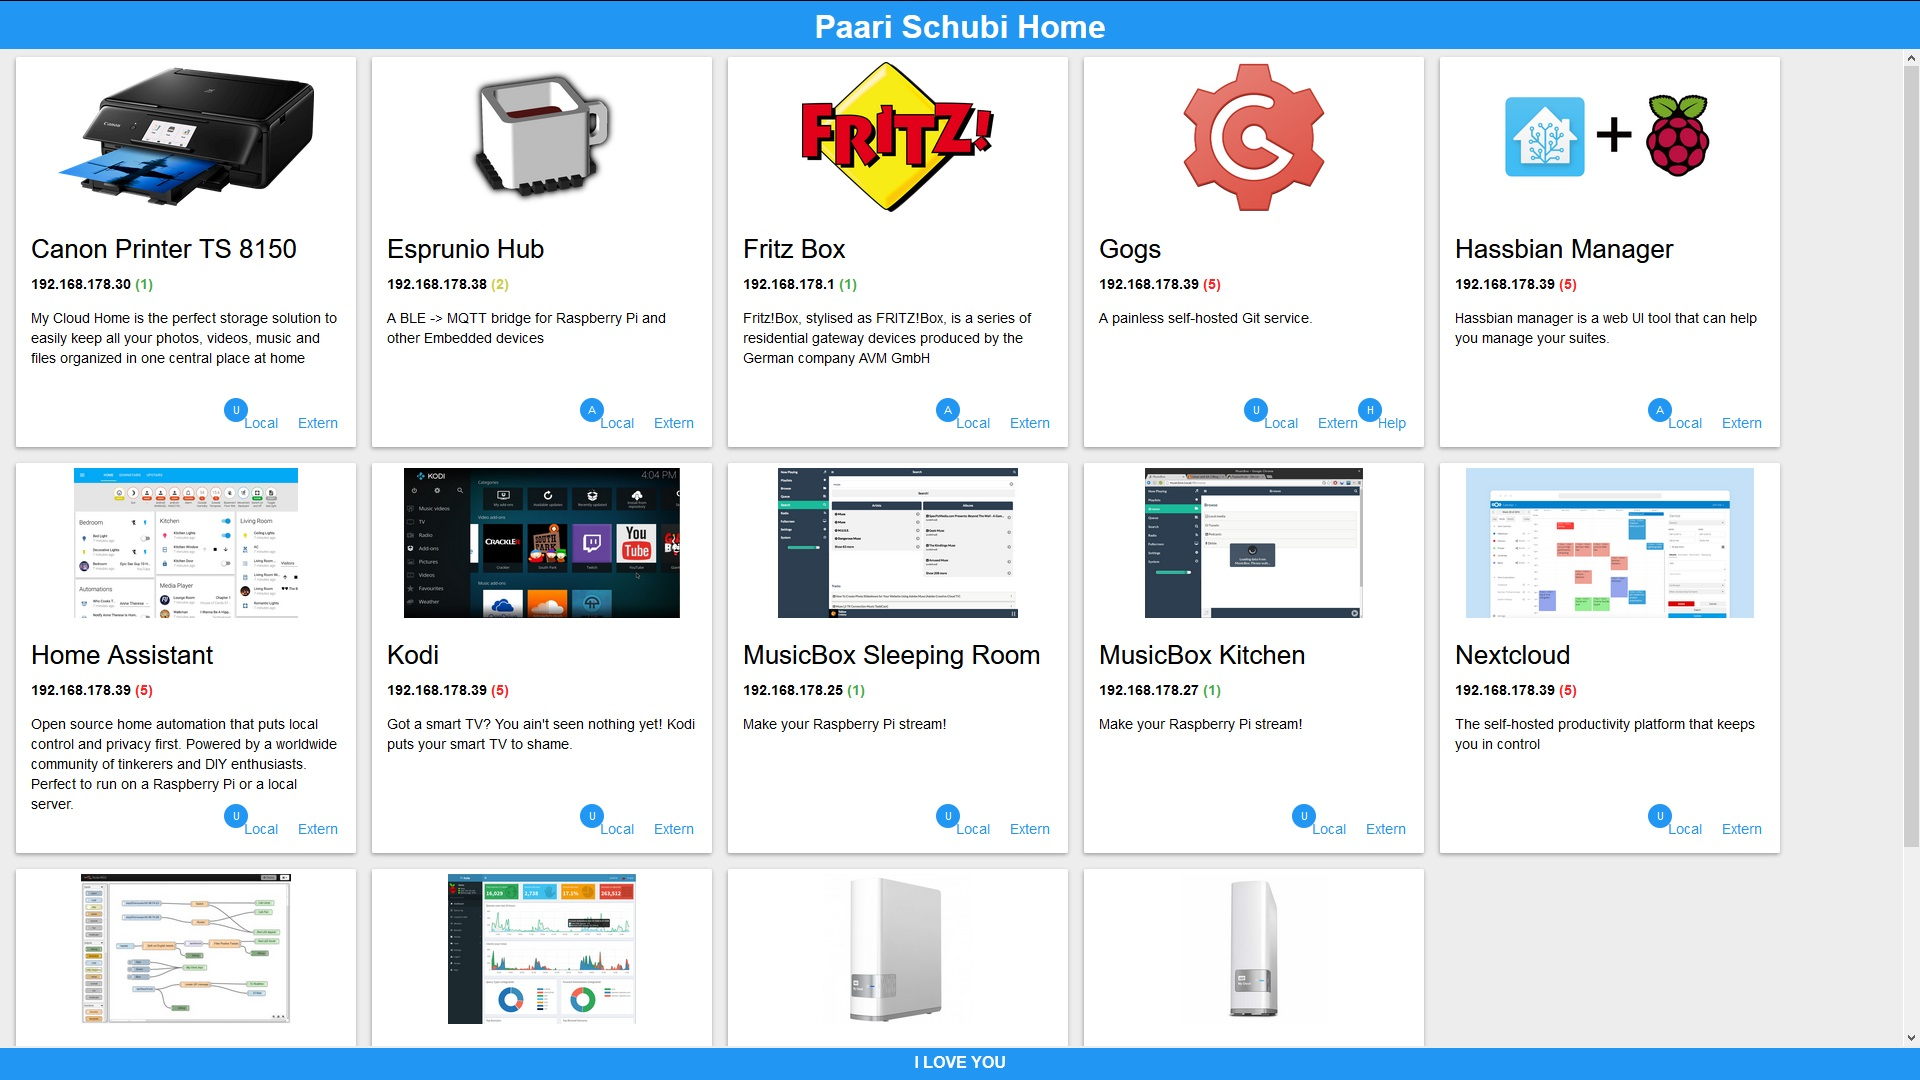
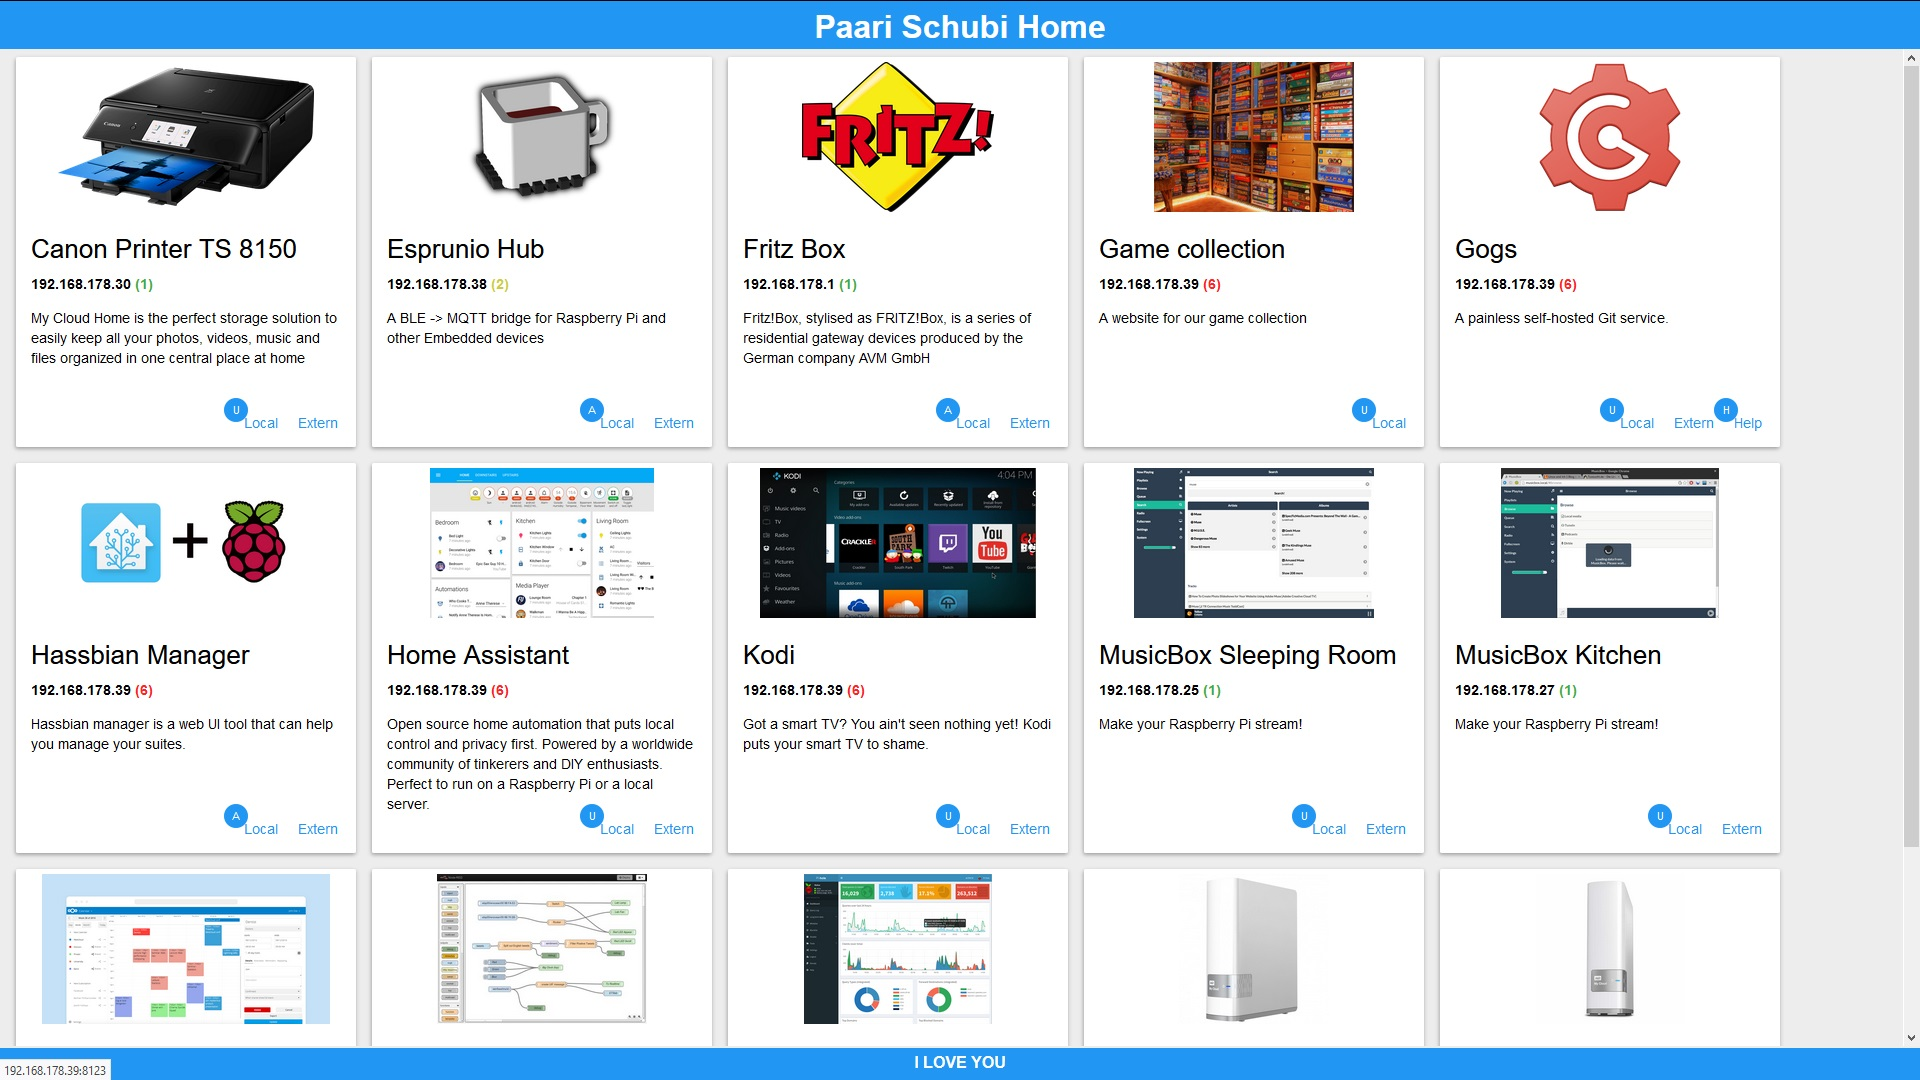
adds link to game collection

diff --git a/index.html b/index.html
@@ -47,10 +47,22 @@
             </div>
 
             <div class="card">
+                <a href="http://192.168.178.39/game-collection" target="_blank"><img class="card-image" src="https://external-content.duckduckgo.com/iu/?u=https%3A%2F%2Fgeekken.files.wordpress.com%2F2012%2F08%2Fmassiveboardgamecollection.jpeg&f=1&nofb=1" /></a>
+                <div class="card-details">
+                    <h2 class="card-head">Game collection</h2>
+                    <p><b>192.168.178.39</b>&nbsp;<span style="color:#FF2222; font-weight: bold;">(6)</span></p>
+                    <p>A website for our game collection</p>
+                    <div class="card-actions">
+                        <a href="http://192.168.178.39/game-collection" target="_blank" class="card-action-button" data-badge="U">Local</a>
+                    </div>
+                </div>
+            </div>
+
+            <div class="card">
                 <a href="http://192.168.178.39:3000" target="_blank"><img class="card-image" src="https://external-content.duckduckgo.com/iu/?u=https%3A%2F%2Fupload.wikimedia.org%2Fwikipedia%2Fcommons%2F0%2F09%2FGogs_logo.png&f=1&nofb=1" /></a>
                 <div class="card-details">
                     <h2 class="card-head">Gogs</h2>
-                    <p><b>192.168.178.39</b>&nbsp;<span style="color:#FF2222; font-weight: bold;">(5)</span></p>
+                    <p><b>192.168.178.39</b>&nbsp;<span style="color:#FF2222; font-weight: bold;">(6)</span></p>
                     <p>A painless self-hosted Git service.</p>
                     <div class="card-actions">
                         <a href="https://dev.to/_lunacy_/private-github-with-gogs-and-raspberry-pi-46m3" target="_blank" class="card-action-button" data-badge="H">Help</a>
@@ -64,7 +76,7 @@
                 <a href="http://192.168.178.39:9999/" target="_blank"><img class="card-image" src="https://proxy.duckduckgo.com/iu/?u=https%3A%2F%2Fhome-assistant.io%2Fimages%2Fblog%2F2017-05-hassbian-pi-zero%2Fhome_assistant_plus_rpi_600x315.png&f=1&nofb=1" /></a>
                 <div class="card-details">
                     <h2 class="card-head">Hassbian Manager</h2>
-                    <p><b>192.168.178.39</b>&nbsp;<span style="color:#FF2222; font-weight: bold;">(5)</span></p>
+                    <p><b>192.168.178.39</b>&nbsp;<span style="color:#FF2222; font-weight: bold;">(6)</span></p>
                     <p>Hassbian manager is a web UI tool that can help you manage your suites.</p>
                     <div class="card-actions">
                         <a href="https://github.com/home-assistant/hassbian-scripts/blob/master/docs/suites/manager.md" target="_blank" class="card-action-button">Extern</a>
@@ -77,7 +89,7 @@
                 <a href="http://192.168.178.39:8123/" target="_blank"><img class="card-image" src="https://proxy.duckduckgo.com/iu/?u=https%3A%2F%2Fmagazine.odroid.com%2Fwp-content%2Fuploads%2FHome-Assistant-Figure-0.png&f=1&nofb=1" /></a>
                 <div class="card-details">
                     <h2 class="card-head">Home Assistant</h2>
-                    <p><b>192.168.178.39</b>&nbsp;<span style="color:#FF2222; font-weight: bold;">(5)</span></p>
+                    <p><b>192.168.178.39</b>&nbsp;<span style="color:#FF2222; font-weight: bold;">(6)</span></p>
                     <p>Open source home automation that puts local control and privacy first. Powered by a worldwide community of tinkerers and DIY enthusiasts. Perfect to run on a Raspberry Pi or a local server.</p>
                     <div class="card-actions">
                         <a href="https://www.home-assistant.io/" target="_blank" class="card-action-button">Extern</a>
@@ -90,7 +102,7 @@
                 <a href="http://192.168.178.39:8080/" target="_blank"><img class="card-image" src="https://proxy.duckduckgo.com/iu/?u=https%3A%2F%2Fwww.imore.com%2Fsites%2Fwpcentral.com%2Ffiles%2Fstyles%2Flarger%2Fpublic%2Ffield%2Fimage%2F2017%2F02%2Fkodi-17-windows-10.jpg%3Fitok%3Dkt-EXttz&f=1&nofb=1" /></a>
                 <div class="card-details">
                     <h2 class="card-head">Kodi</h2>
-                    <p><b>192.168.178.39</b>&nbsp;<span style="color:#FF2222; font-weight: bold;">(5)</span></p>
+                    <p><b>192.168.178.39</b>&nbsp;<span style="color:#FF2222; font-weight: bold;">(6)</span></p>
                     <p>Got a smart TV? You ain't seen nothing yet! Kodi puts your smart TV to shame.</p>
                     <div class="card-actions">
                         <a href="https://kodi.tv/" target="_blank" class="card-action-button">Extern</a>
@@ -129,7 +141,7 @@
                 <a href="http://192.168.178.39/nextcloud/" target="_blank"><img class="card-image" src="https://proxy.duckduckgo.com/iu/?u=https%3A%2F%2Fnextcloud.com%2Fwp-content%2Fthemes%2Fnext%2Fassets%2Fimg%2Ffeatures%2Fcalendar-nw.png%3Fx16328&f=1&nofb=1" /></a>
                 <div class="card-details">
                     <h2 class="card-head">Nextcloud</h2>
-                    <p><b>192.168.178.39</b>&nbsp;<span style="color:#FF2222; font-weight: bold;">(5)</span></p>
+                    <p><b>192.168.178.39</b>&nbsp;<span style="color:#FF2222; font-weight: bold;">(6)</span></p>
                     <p>The self-hosted productivity platform that keeps you in control</p>
                     <div class="card-actions">
                         <a href="https://nextcloud.com/" target="_blank" class="card-action-button">Extern</a>
